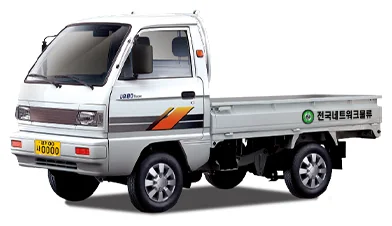
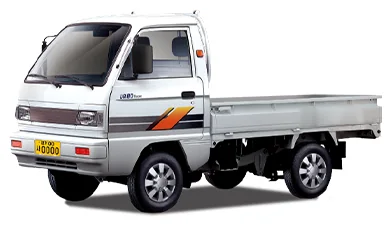
블로그 대표 사진 6편 교정, 라보 사진의 다른 업체 표기 제거
- 내용과 안 맞던 글 6편에 image 지정: 1톤 용달·라보·성수·화성평택·김포파주·하남광주
- 김포→항공, 광주→KTX처럼 지명 단어로 잘못 고른 사진을 차량에 맞게 바꿈
- opt-labo.webp 적재함의 전국네트워크물류 표기 제거(prepare_photos.py ERASE에 labo 추가)
- 연쇄 변화는 택배와 퀵 비교 글 1편(다마스 → 달리는 오토바이)

Changed region(s): [[0.7653, 0.4646, 0.949, 0.5575]]

diff --git a/tools/prepare_photos.py b/tools/prepare_photos.py
@@ -102,6 +102,7 @@ ERASE = {
     'top': [((325, 42, 458, 182), 38, 186)],
     'cold': [((36, 50, 138, 152), 46, 156)],
     'damas': [((60, 116, 172, 152), 114, 154)],
+    'labo': [((301, 108, 317, 126), 107, 126), ((316, 109, 374, 122), 108, 122)],  # 원형 로고 / 글자(아래 비스듬한 선은 남긴다)
 }
 for i, name in enumerate(['cargo', 'long', 'wing', 'lift', 'top', 'cold', 'damas', 'labo'], 1):
     im = trim(on_white(Image.open(src(f'site/img/main3/option0{i}_big.png'))), 10)

diff --git a/content/blog/seongsu-quick.md b/content/blog/seongsu-quick.md
@@ -7,6 +7,7 @@ time: 18:00
 category: 보내는 방법
 tags: 성수 퀵, 성동구 퀵, 성수동 퀵서비스, 팝업 물품 퀵, 행사 물품 배송
 service: motorcycle
+image: truck1
 author: 퀵서비스다 운영팀
 topic: seongsu-quick
 ---

diff --git a/content/blog/hanam-gwangju-quick.md b/content/blog/hanam-gwangju-quick.md
@@ -7,6 +7,7 @@ time: 13:00
 category: 보내는 방법
 tags: 하남 퀵, 경기 광주 퀵, 하남 용달, 하남 퀵서비스
 service: damas-labo
+image: damas-labo
 author: 퀵서비스다 운영팀
 topic: hanam-gwangju-quick
 ---

diff --git a/content/blog/labo-quick-when.md b/content/blog/labo-quick-when.md
@@ -7,6 +7,7 @@ time: 09:00
 category: 차량·화물
 tags: 라보 퀵, 라보 퀵 요금, 라보 용달, 소형 트럭 퀵
 service: damas-labo
+image: labo
 author: 퀵서비스다 운영팀
 topic: labo-quick-when
 ---

diff --git a/content/blog/gimpo-paju-quick.md b/content/blog/gimpo-paju-quick.md
@@ -7,6 +7,7 @@ time: 09:00
 category: 보내는 방법
 tags: 김포 퀵, 파주 퀵, 김포 용달, 파주 퀵서비스
 service: damas-labo
+image: damas
 author: 퀵서비스다 운영팀
 topic: gimpo-paju-quick
 ---

diff --git a/content/blog/hwaseong-pyeongtaek-quick.md b/content/blog/hwaseong-pyeongtaek-quick.md
@@ -7,6 +7,7 @@ time: 13:00
 category: 차량·화물
 tags: 화성 퀵, 평택 퀵, 화성 화물, 평택 용달
 service: truck
+image: truck1
 author: 퀵서비스다 운영팀
 topic: hwaseong-pyeongtaek-quick
 ---

diff --git a/content/blog/truck-1ton-quick.md b/content/blog/truck-1ton-quick.md
@@ -7,6 +7,7 @@ time: 18:00
 category: 차량·화물
 tags: 1톤 용달, 용달 퀵, 1톤 퀵, 1톤 화물
 service: truck
+image: truck1
 author: 퀵서비스다 운영팀
 topic: truck-1ton-quick
 ---
